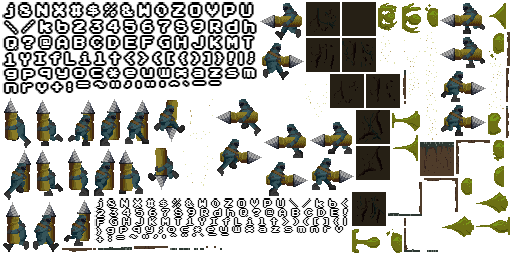
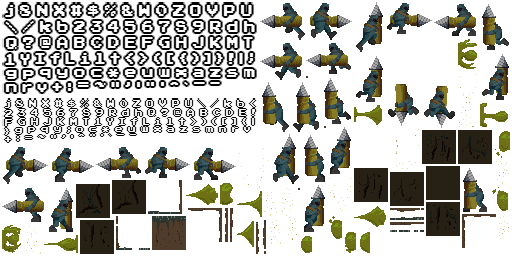
stun animation

diff --git a/Assets/Scripts/GameObjects/Player.cs b/Assets/Scripts/GameObjects/Player.cs
@@ -65,8 +65,8 @@ public class Player : BaseGameObject
         sprite = new FAnimatedSprite("player");
         sprite.addAnimation(new FAnimation("leftIDLE", new int[] { 16 }, animSpeed, true));
         sprite.addAnimation(new FAnimation("rightIDLE", new int[] { 15 }, animSpeed, true));
-        sprite.addAnimation(new FAnimation("leftstun", new int[] { 14 }, animSpeed, true));
-        sprite.addAnimation(new FAnimation("rightstun", new int[] { 13 }, animSpeed, true));
+        sprite.addAnimation(new FAnimation("leftstun", new int[] { 32, 14 }, animSpeed / 100, true));
+        sprite.addAnimation(new FAnimation("rightstun", new int[] { 31, 13 }, animSpeed / 100, true));
         sprite.addAnimation(new FAnimation("leftRUN", new int[] { 5, 6, 7, 8 }, animSpeed, true));
         sprite.addAnimation(new FAnimation("rightRUN", new int[] { 1, 2, 3, 4 }, animSpeed, true));
         sprite.addAnimation(new FAnimation("leftJUMP", new int[] { 11 }, animSpeed, true));
@@ -221,7 +221,7 @@ public class Player : BaseGameObject
 
         if (stunCount > 0)
         {
-            sprite.alpha = 1;
+            sprite.alpha = .5f;
             sprite.play((isFacingLeft ? "left" : "right") + "stun");
         }
         else

diff --git a/Assets/Scripts/GameObjects/WallSlime.cs b/Assets/Scripts/GameObjects/WallSlime.cs
@@ -135,7 +135,7 @@ public class WallSlime : BaseGameObject
         Vector2 playerRelativePos = this.GetPosition() - world.p.GetPosition();
         if (playerRelativePos.sqrMagnitude < (sprite.width * sprite.width))
         {
-            if (world.p.isAttackingDown() && world.p.yVel < 0 && world.p.y > this.y)
+            if (world.p.isAttackingDown() && world.p.yVel < 0 && world.p.y > this.y && world.p.x < this.x + sprite.width / 2 && world.p.x > this.x - sprite.width / 2)
             {
                 world.p.bounce();
                 if (this.lastDamageCounter > world.p.weaponDamageRate)
